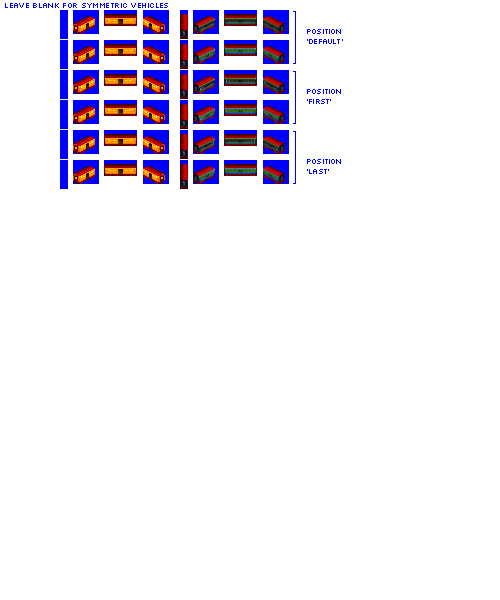
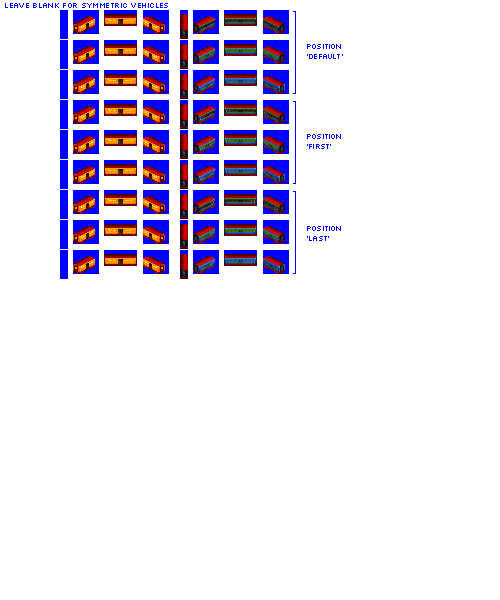
Change: additional livery for Blaze HST

diff --git a/src/vehicles/blaze.py b/src/vehicles/blaze.py
@@ -14,10 +14,8 @@ def main(roster_id):
         },
         intro_year_offset=-10,  # let's be a little bit earlier for this one - keep coaches matched
         gen=5,
-        # GNER
-        additional_liveries=["BLUE_GREY"],
+        additional_liveries=["BLUE_GREY", "GNER"],
         sprites_complete=True,
-        sprites_additional_liveries_needed=True, # GNER?
     )
 
     consist.add_unit(
